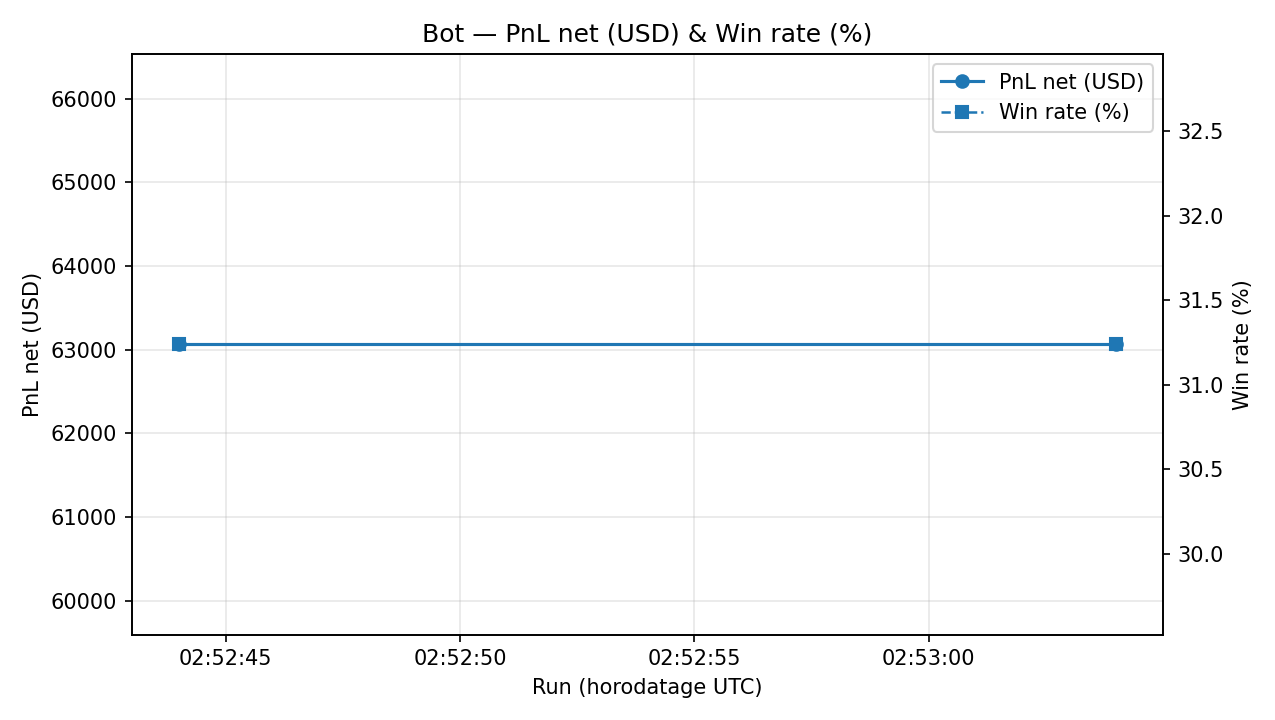
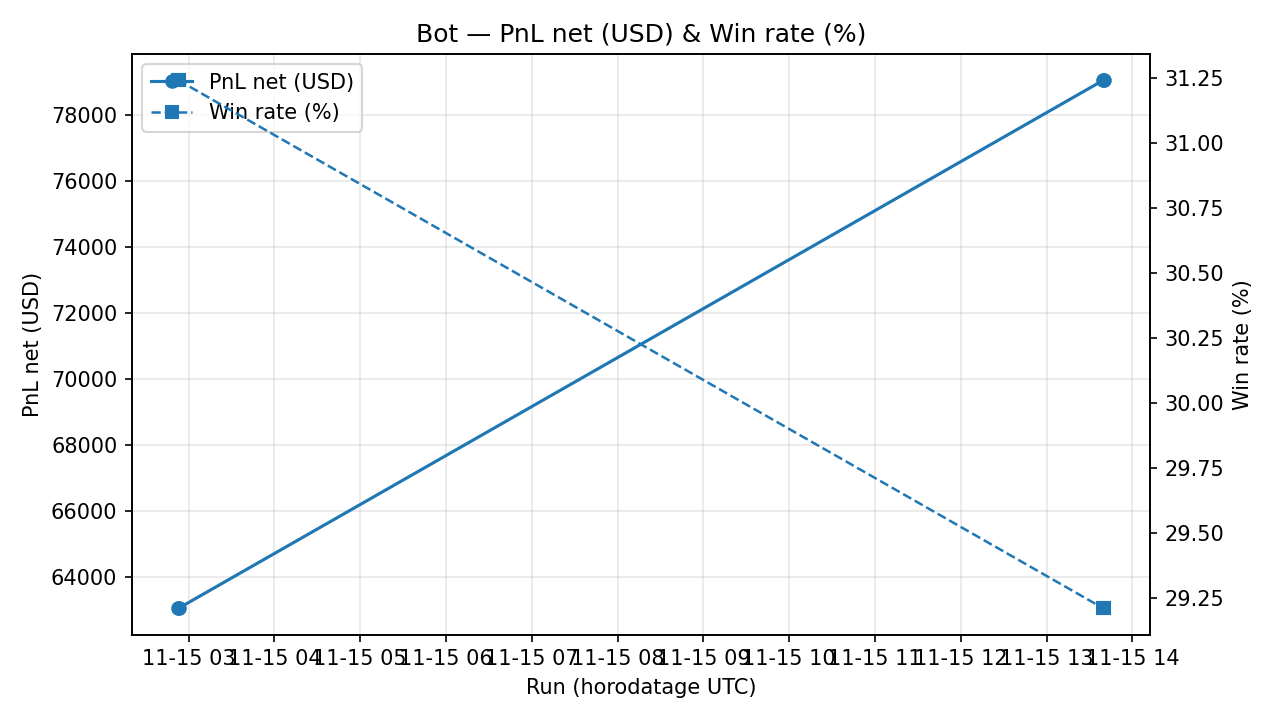
bot run 2025-11-15T13:39:58Z

diff --git a/README.md b/README.md
@@ -1,9 +1,9 @@
 🤖 **Dernier run du bot multi-indicateurs**
 
-- **Horodatage (UTC)** : `20251115T025304Z`
-- **PnL net (USD)** : `$63065.0`
-- **Trades** : 637
-- **Win rate** : 31.24%
+- **Horodatage (UTC)** : `20251115T133949Z`
+- **PnL net (USD)** : `$79055.0`
+- **Trades** : 630
+- **Win rate** : 29.21%
 
 ![Évolution du PnL](out/performance.png)
 
@@ -15,8 +15,8 @@
 | SMA 200 | 200 |
 | RSI len | 14 |
 | MACD (fast, slow, signal) | [12, 26, 9] |
-| VWAP window | 170 |
+| VWAP window | 135 |
 | Volume MA window | 20 |
-| Volume Profile window | 260 |
+| Volume Profile window | 80 |
 
 _Source des données :_ `data/mnq_5m.csv`
